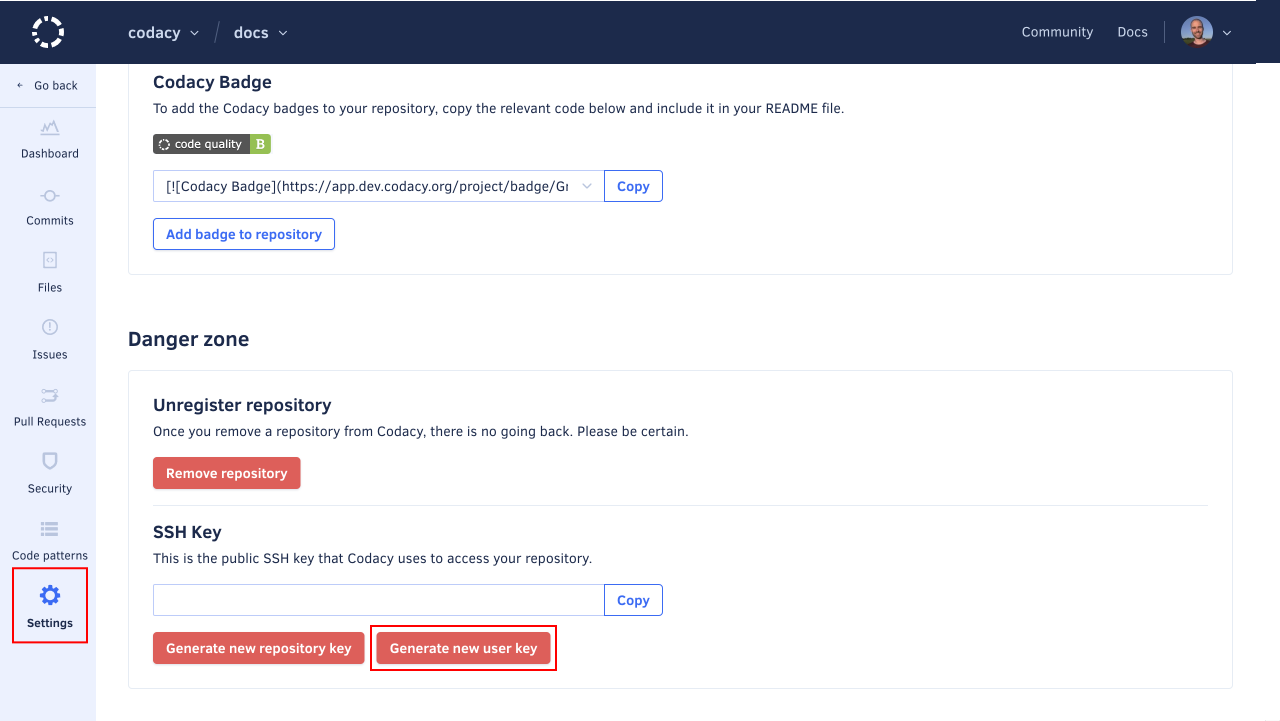
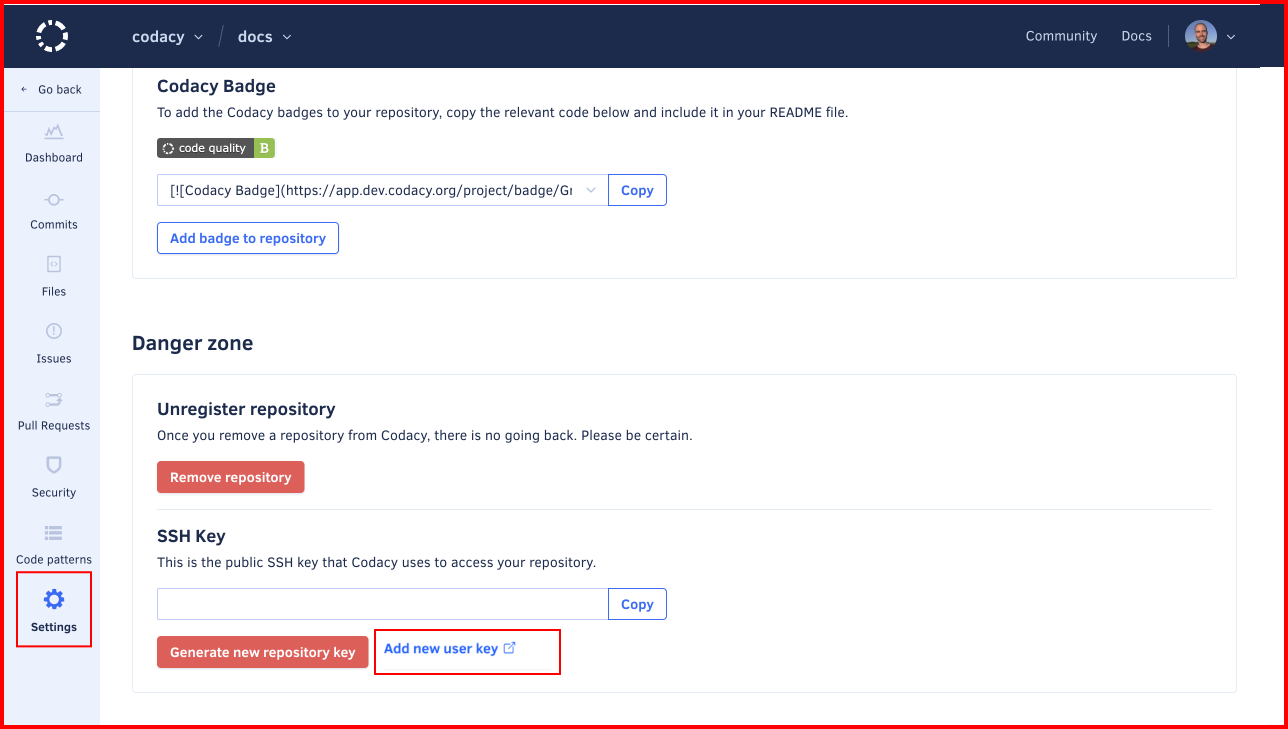
feat: Update submodules details

diff --git a/docs/repositories-configure/using-submodules.md b/docs/repositories-configure/using-submodules.md
@@ -17,10 +17,10 @@ After we enabled submodules for your organization, do the following:
     -   **Public repositories**, make sure that your Git URL uses the HTTPS protocol
     -   **Private repositories**, make sure that your Git URL uses the SSH protocol.
 
-1.  If you already have repositories on Codacy where you want to use submodules, navigate to the page **Settings** and click the button **Generate New User Key** for each of these repositories.
+1.  If you already have repositories on Codacy where you want to use submodules, add a new SSH key to your git provider account for each of these repositories. On the repository **Settings** page, you can click the link **Add new user key** to go to your Git provider page where you manage your user account SSH keys.
 
-    !!! important
-        **If you're using Bitbucket Cloud**, you must manually add the SSH key on your [user account](https://bitbucket.org/account/settings/ssh-keys/).
+    !!! note
+        **If you're using GitLab Cloud**, navigate to the page **Settings** and click the button **Generate New User Key** for each repository. Codacy generates new keys on your user account.
 
     When you add a repository to Codacy, Codacy adds a new SSH key to your repository using an integration with your Git provider. Codacy uses this SSH key every time it needs to clone that repository. When you're using submodules, Codacy needs to clone additional repositories it has no access to. Since there is no way of identifying the submodules of a repository before cloning the repository, Codacy adds the SSH keys to the user account so that it has access to the same repositories as the user.
 
@@ -34,9 +34,14 @@ After we enabled submodules for your organization, do the following:
 
 You must repeat steps 2 to 4 above every time you add new repositories with submodules to Codacy.
 
-Alternatively, you can make this the default behavior for all new repositories by enabling **Add project key to the user, by default** in **Administration**, page **Settings**.
+**If you're using Codacy Self-hosted**, you can make this the default behavior for all new repositories by enabling **Add project key to the user, by default** in **Administration**, page **Settings**.
 
 !!! important
     **If you're using Bitbucket Cloud** this setting must be turned off since automatically adding the user keys isn't supported.
 
 ![Add project key to the user by default](images/using-submodules-default-add-user-key.png)
+
+## See also
+
+-   [Add an SSH key to your GitHub account](https://docs.github.com/en/authentication/connecting-to-github-with-ssh/generating-a-new-ssh-key-and-adding-it-to-the-ssh-agent)
+-   [Add an SSH key to your Bitbucket account](https://support.atlassian.com/bitbucket-cloud/docs/configure-ssh-and-two-step-verification/)
